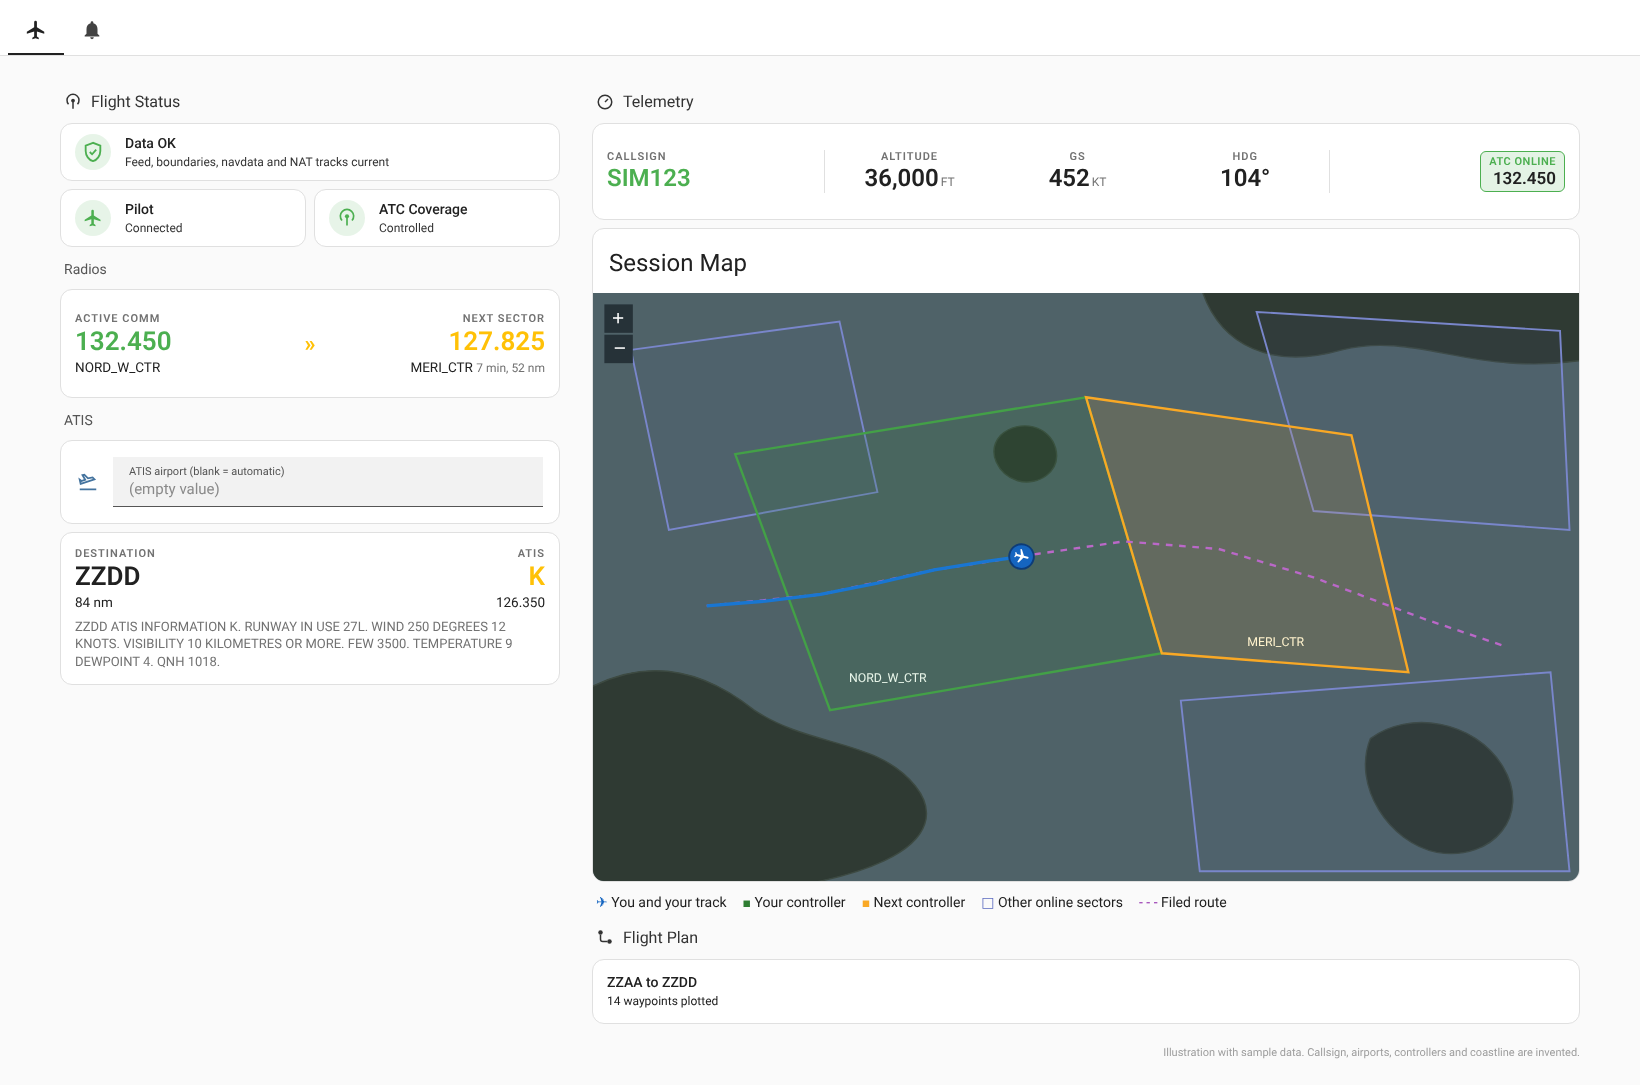
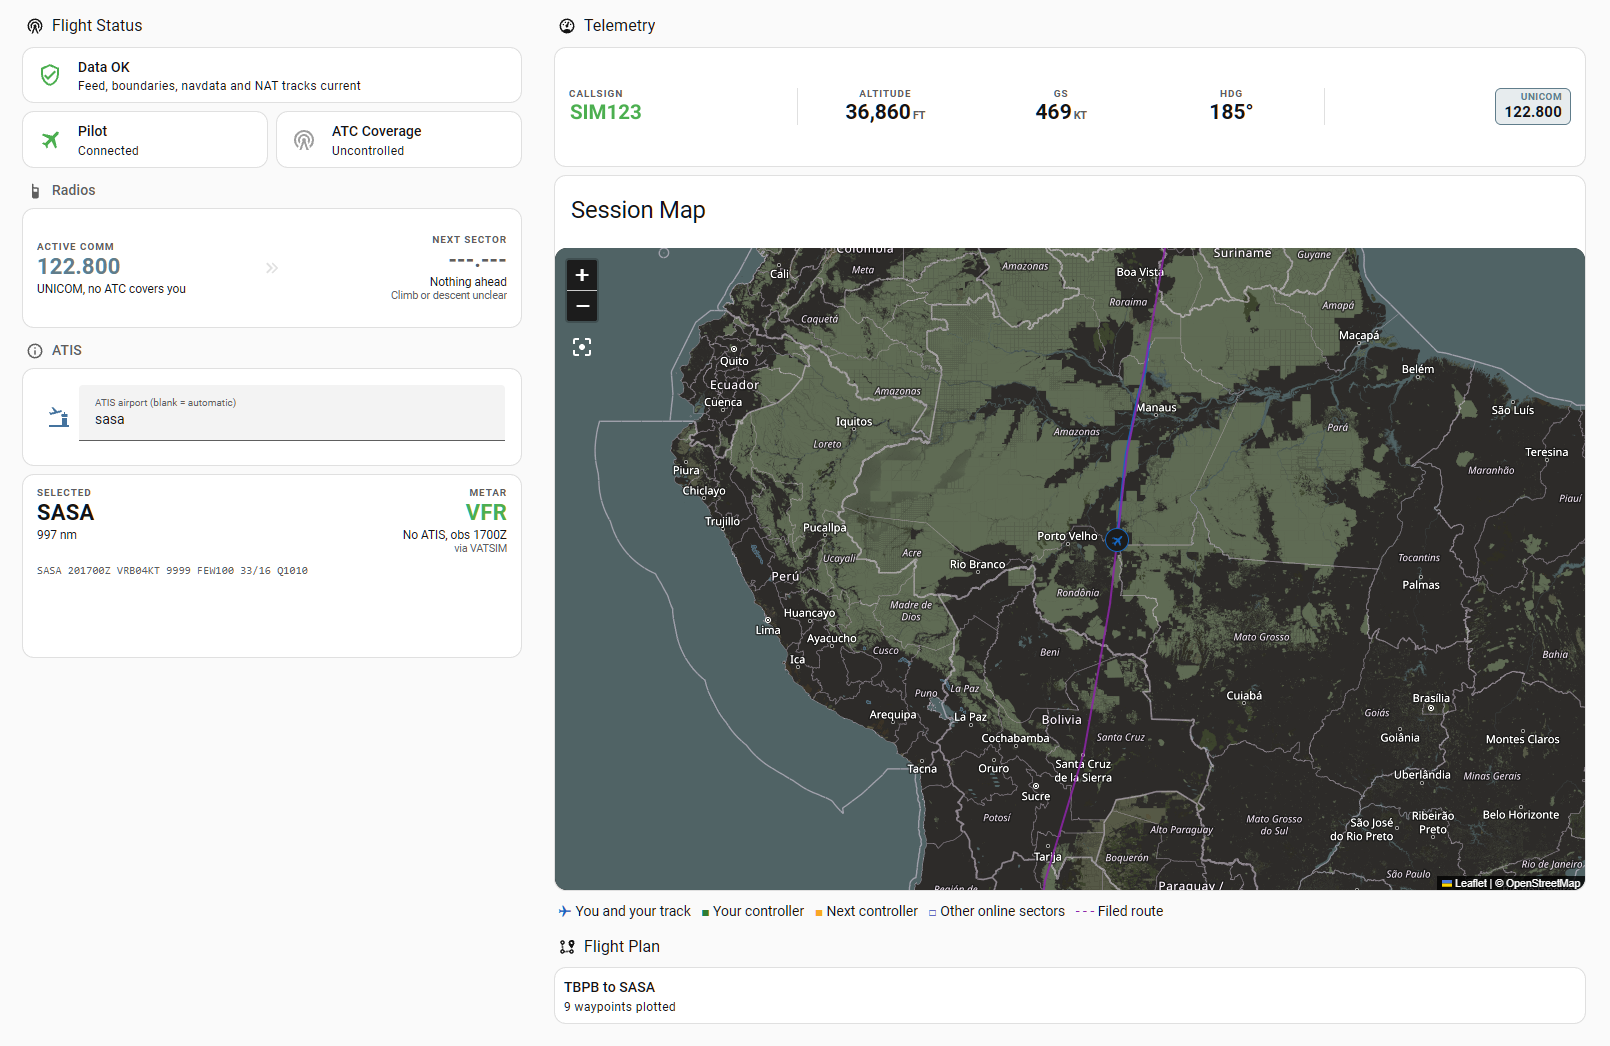
README: real screenshots; pii_scan: handle annotated tags

diff --git a/tools/pii_scan.py b/tools/pii_scan.py
@@ -154,7 +154,10 @@ def scan_git(root, patterns, rules, out, skip_names=()):
         text = data.decode("utf-8", "replace")
         if kind != "blob":
             text = commit_text(text)
-        scan_text(f"{name or kind}@git:{sha[:10]}", text, patterns, rules, out)
+        # A tag object is listed with its tag name; label it "commit" so the
+        # same allow rules cover author, committer and tagger lines.
+        label = name if kind == "blob" else "commit"
+        scan_text(f"{label}@git:{sha[:10]}", text, patterns, rules, out)
     return seen
 
 

diff --git a/README.md b/README.md
@@ -4,7 +4,7 @@ Know when ATC comes online along your route before you call them. This AppDaemon
 
 ![Dashboard main view: flight status, radios, ATIS, telemetry and session map](docs/images/dashboard_main.png)
 
-*Illustration with sample data, not a capture. The callsign, airports, controllers and coastline are invented.*
+*Captured in flight. The callsign is replaced with a placeholder; nothing else is altered. Taken on a development build: the METAR line in the ATIS card is not in `v1.0.0-rc2`.*
 
 ---
 
@@ -45,7 +45,7 @@ Know when ATC comes online along your route before you call them. This AppDaemon
 
 ![Dashboard alerts view: alert mode, alert toggles and speaker targets](docs/images/dashboard_alerts.png)
 
-*Illustration with sample data.*
+*Captured from a running install. The speaker buttons are whatever you configure; the example config ships two.*
 
 **Health and watchdogs**
 - `sensor.vatsim_feed_health` reports feed age, boundary, navdata and NAT track status, the navdata AIRAC cycle and its expiry, and the last refresh errors.
